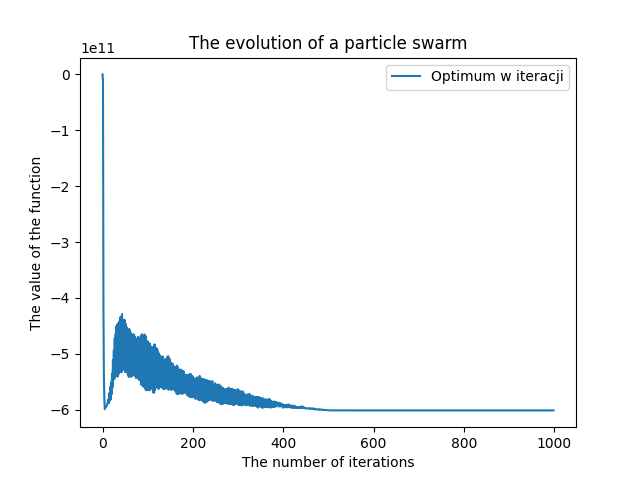
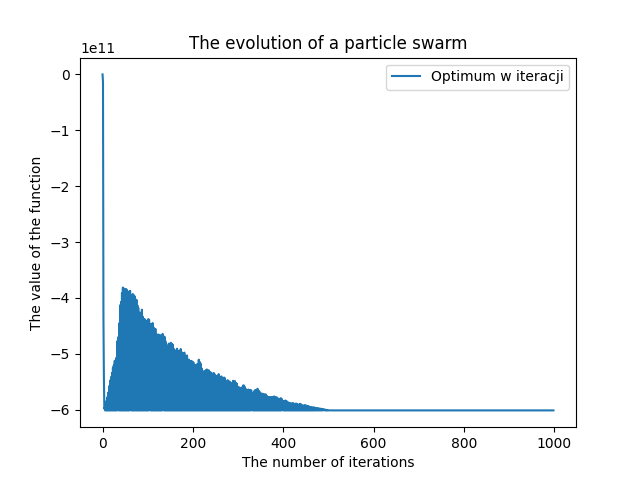
Update calculator

Changed region(s): [[0.1562, 0.5938, 0.5, 0.875]]

diff --git a/da/softConstraintsCost.py b/da/softConstraintsCost.py
@@ -57,14 +57,15 @@ def cover(nurse_schedule, nurse_cost):
         if count > row['Requirement']:  # more nurses than we needed
             # cover_cost_total = cover_cost_total + 1
             for j in current_shift_nurse:
-                nurse_cost[j][day] += 1.0 / count
+                nurse_cost[j][day] = nurse_cost[j][day] + (1.0 / count)
         if count < row['Requirement']:  # not enough nurse
             cover_cost_total = cover_cost_total + 100
             for j in nurse_cost:  # 0 - 19
                 if j in current_shift_nurse:
                     continue
                 else:
-                    nurse_cost[j][day] += 100.0 / (len(nurse_cost) - count)
+                    print(100.0 / (len(nurse_cost) - count))
+                    nurse_cost[j][day] = nurse_cost[j][day] + (100.0 / (len(nurse_cost) - count))
 
     return cover_cost_total
 

diff --git a/da/da.py b/da/da.py
@@ -175,7 +175,7 @@ def dragonfly_algorithm(function, agents, lbd, ubd, iteration, param_fun=_variab
         # random
         # >3 -> 3; < 0 -> 0
         pos = pos.astype("float64")
-
+        pos = pos % 4
         pos[neighbours_cnt_gt_0] += vel[neighbours_cnt_gt_0]  # Eq. 3.7
         levy = _levy(dim, neighbours_cnt_eq_0.size)
         # amplify levy to a higher number range
